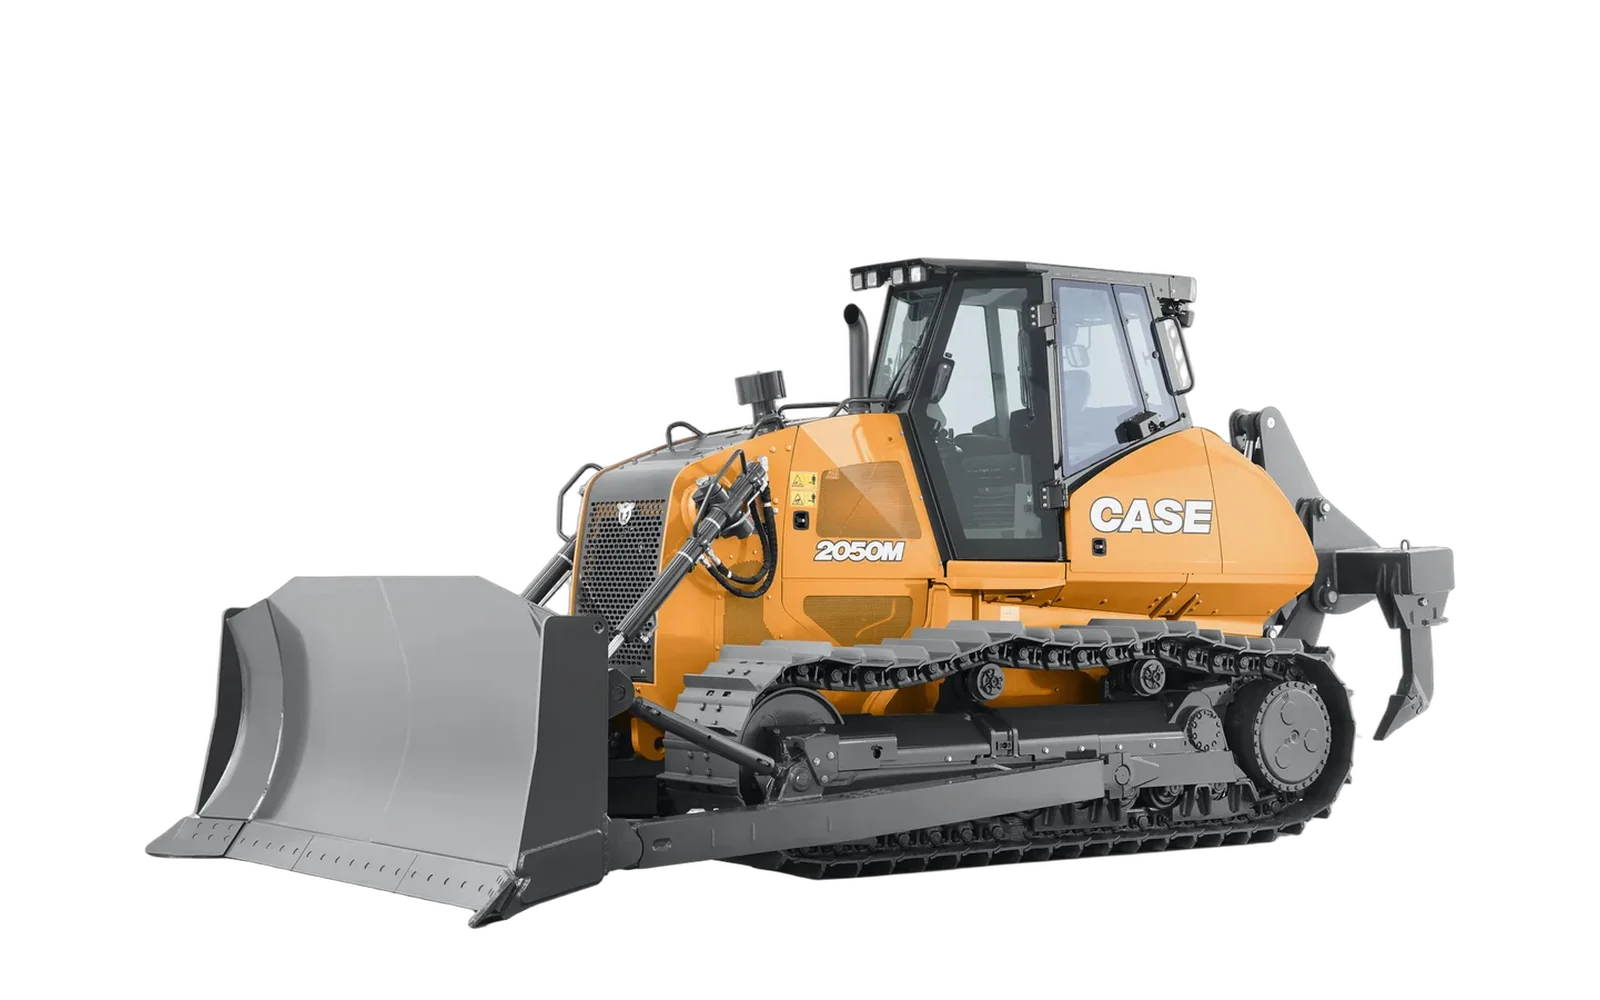
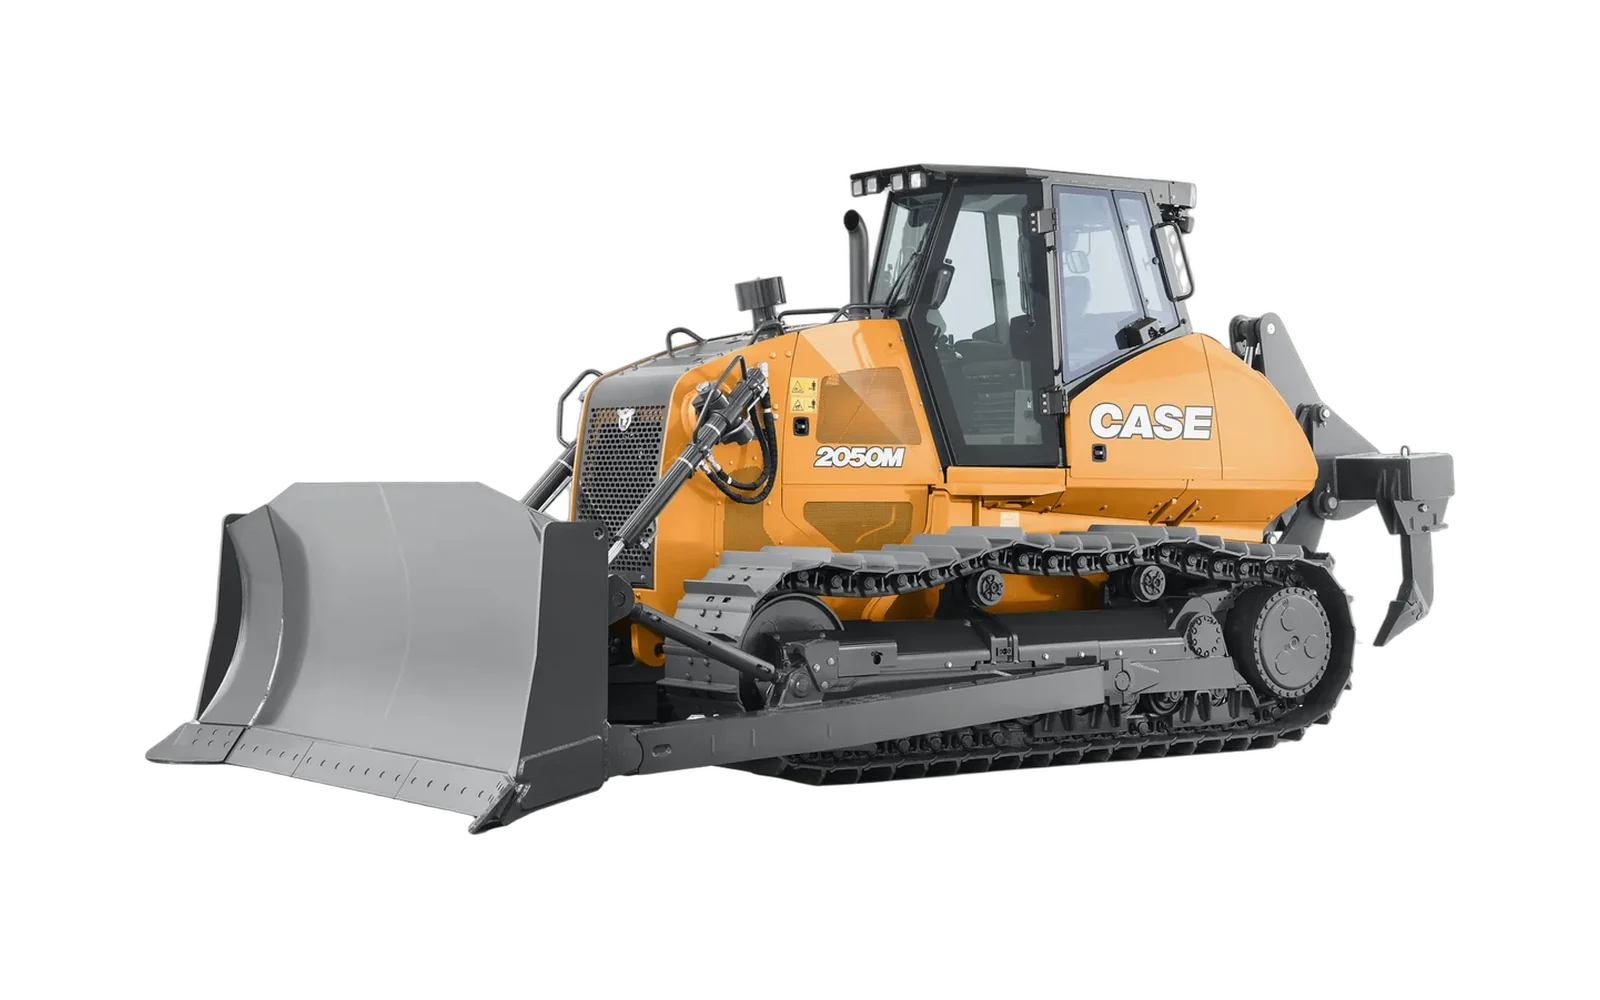
fix(hero): máquinas centradas na altura do palco

diff --git a/scripts/hero-normalizar.py b/scripts/hero-normalizar.py
@@ -30,8 +30,12 @@ SAIDA = REPO / "public" / "case-assets" / "hero"
 ASSETS = REPO / "public" / "case-assets"
 
 PALCO = (1600, 1000)   # canvas comum a todas as máquinas
-CHAO = 930             # linha de chão (y) onde toda máquina apoia
+CHAO = 930             # chão de uma máquina de altura máxima
 ALTURA_MAX = 860       # teto: lança de escavadeira não pode estourar o palco
+# Máquina baixa (minicarregadeira) apoiada no mesmo chão ficava no fundo do halo.
+# Cada máquina sobe metade da folga até o teto: todas ficam centradas na
+# mesma altura do palco, e a maior continua encostada no chão.
+ELEVACAO = 0.5
 
 # slug -> (fonte, largura). `largura` é o único ajuste por máquina.
 MAQUINAS = {
@@ -63,7 +67,8 @@ def normalizar(img: Image.Image, largura: float) -> Image.Image:
     novo = (max(1, round(img.width * escala)), max(1, round(img.height * escala)))
     img = img.resize(novo, Image.LANCZOS)
     palco = Image.new("RGBA", PALCO, (0, 0, 0, 0))
-    palco.alpha_composite(img, ((PALCO[0] - img.width) // 2, CHAO - img.height))
+    folga = ALTURA_MAX - img.height
+    palco.alpha_composite(img, ((PALCO[0] - img.width) // 2, CHAO - img.height - round(folga * ELEVACAO)))
     return palco
 
 
